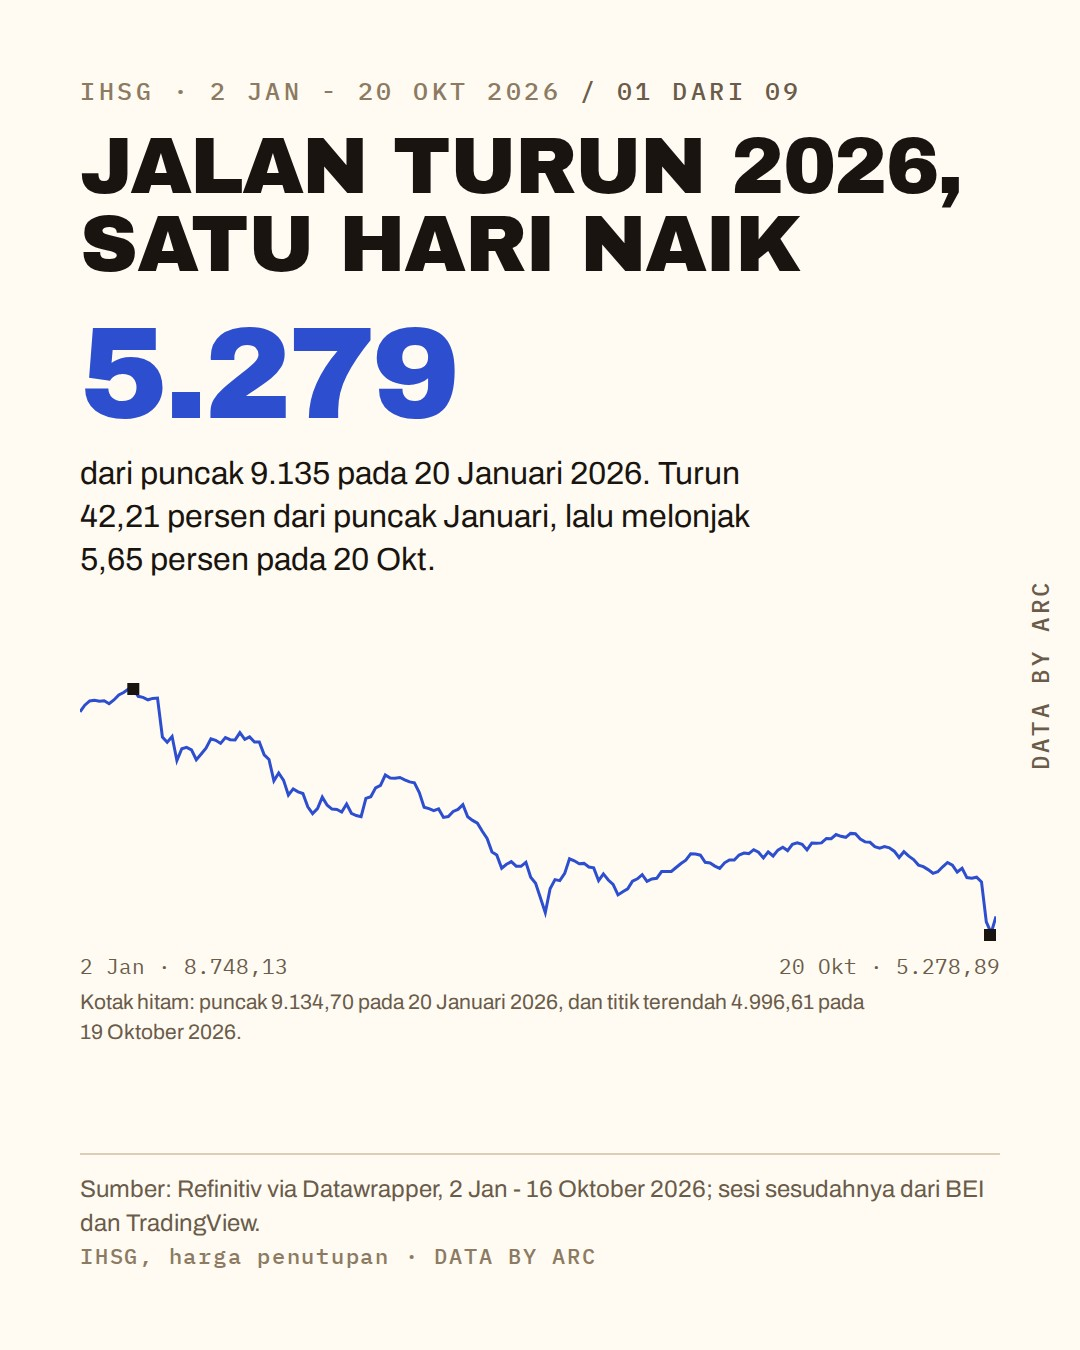
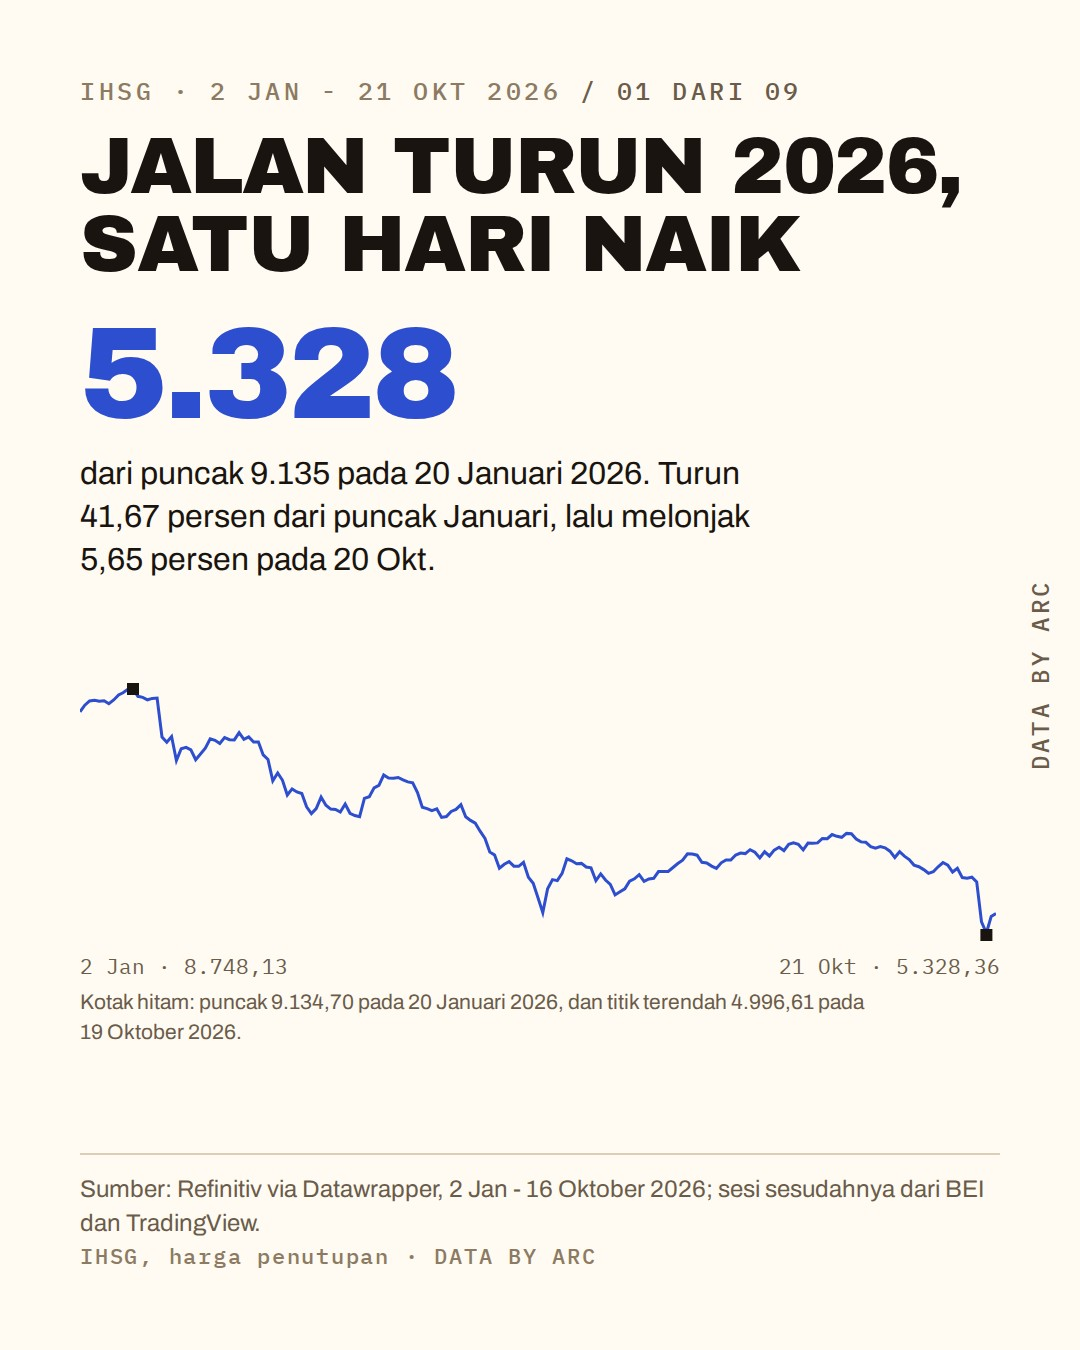
Perbarui seri pasar-ihsg, penutupan 2026-10-21

diff --git a/index.html b/index.html
@@ -146,19 +146,19 @@ Menurut kamu, satu bank bisa menggoyang seluruh pasar?</p>
       <li><a href="pasar-ihsg/slide5.jpg"><img src="pasar-ihsg/slide5.jpg" alt="Slide 5: Lebih dari separuh hari merah" width="1080" height="1350" loading="lazy"></a><p class="cap">Slide 5: Lebih dari separuh hari merah</p></li>
       <li><a href="pasar-ihsg/slide6.jpg"><img src="pasar-ihsg/slide6.jpg" alt="Slide 6: Maret yang paling dalam" width="1080" height="1350" loading="lazy"></a><p class="cap">Slide 6: Maret yang paling dalam</p></li>
       <li><a href="pasar-ihsg/slide7.jpg"><img src="pasar-ihsg/slide7.jpg" alt="Slide 7: Cuma Juli dan Agustus" width="1080" height="1350" loading="lazy"></a><p class="cap">Slide 7: Cuma Juli dan Agustus</p></li>
-      <li><a href="pasar-ihsg/slide8.jpg"><img src="pasar-ihsg/slide8.jpg" alt="Slide 8: 20 OKT: naik tajam" width="1080" height="1350" loading="lazy"></a><p class="cap">Slide 8: 20 OKT: naik tajam</p></li>
+      <li><a href="pasar-ihsg/slide8.jpg"><img src="pasar-ihsg/slide8.jpg" alt="Slide 8: 21 OKT: naik tajam" width="1080" height="1350" loading="lazy"></a><p class="cap">Slide 8: 21 OKT: naik tajam</p></li>
       <li><a href="pasar-ihsg/slide9.jpg"><img src="pasar-ihsg/slide9.jpg" alt="Slide 9: Satu hari naik bukan arah baru" width="1080" height="1350" loading="lazy"></a><p class="cap">Slide 9: Satu hari naik bukan arah baru</p></li>
   </ul>
   <h2>Caption Instagram, pasar-ihsg</h2>
-  <p class="caption">IHSG 2026: puncaknya 9.134,70 pada 20 Januari 2026, penutupan terakhir 5.278,89. Turun 42,21 persen dari puncak.
+  <p class="caption">IHSG 2026: puncaknya 9.134,70 pada 20 Januari 2026, penutupan terakhir 5.328,36. Turun 41,67 persen dari puncak.
 
 8 dari 10 bulan merah. Maret -14,42 persen, Mei -11,92 persen, Juni -7,90 persen. Cuma Juli (+10,51 persen) dan Agustus (+4,64 persen) yang hijau.
 
-106 dari 189 pergerakan harian ditutup lebih rendah dari hari sebelumnya. Oktober 2026 -13,05 persen dalam 14 sesi.
+106 dari 190 pergerakan harian ditutup lebih rendah dari hari sebelumnya. Oktober 2026 -12,23 persen dalam 15 sesi.
 
 Lalu 20 Oktober: +5,65 persen dalam satu hari, dari 4.996,61 ke 5.278,89.
 
-Satu hari naik belum mengubah arah setahun. Untuk balik ke 9.135, indeks masih perlu naik 73,04 persen.
+Satu hari naik belum mengubah arah setahun. Untuk balik ke 9.135, indeks masih perlu naik 71,44 persen.
 
 Kenapa turun: pemicunya kepercayaan, bukan laba. MSCI membekukan indeks Indonesia 27 Januari, dana asing keluar Rp84,99 triliun sampai 9 Oktober, rupiah tembus 18.000, bank ikut dipotong walau labanya masih tumbuh.
 
